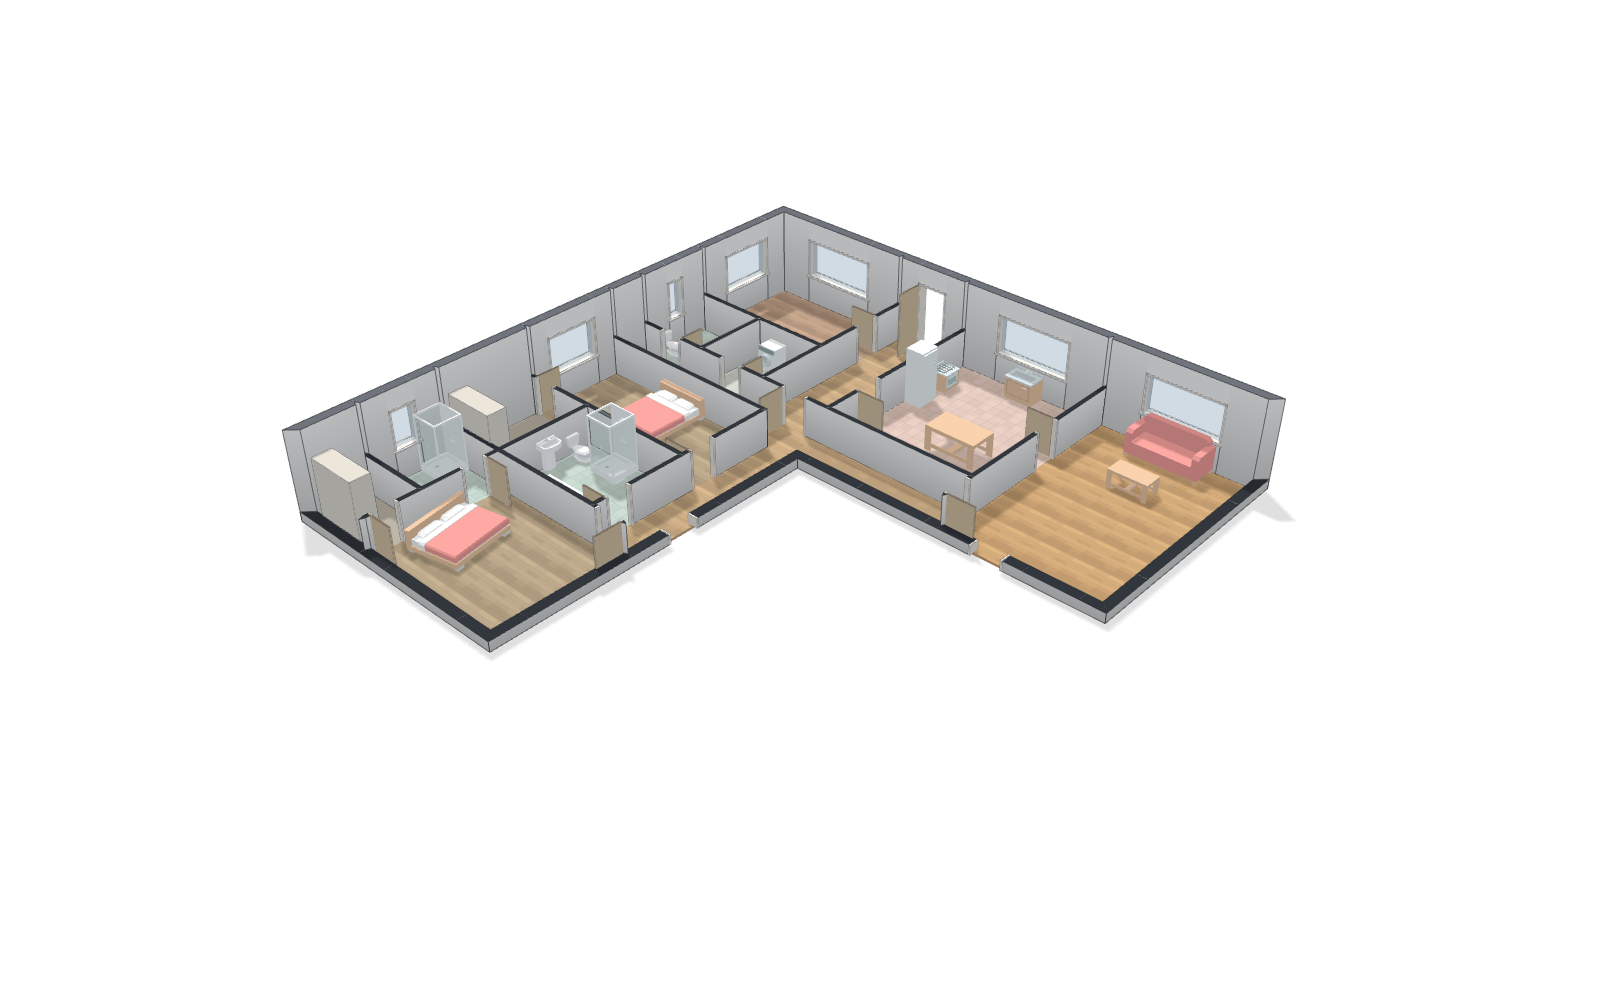
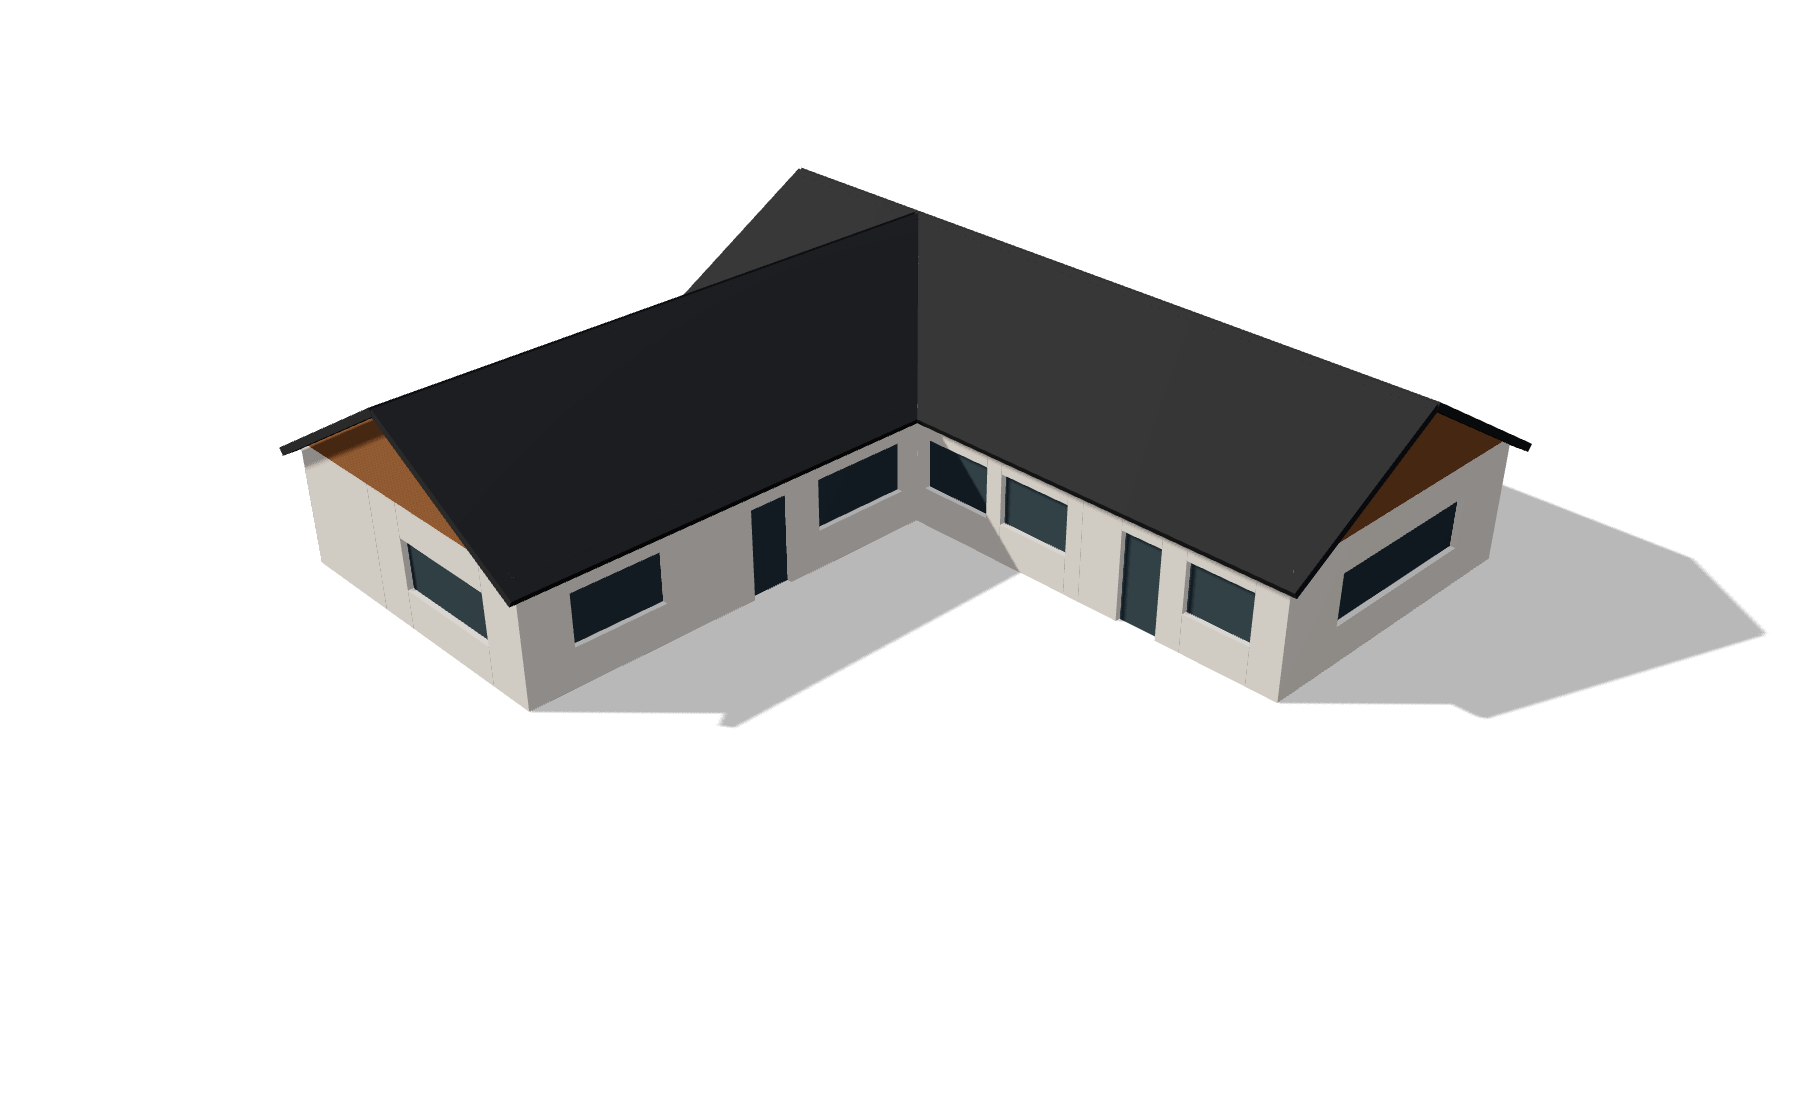
Site images: exterior renders of the courtyard house (pitched roofs, rendered walls, glazing) set in architectural scenes by Cloudinary
Ten scenes (garden, dusk courtyard, street, aerial countryside, low angle, sunrise meadow, snow at dusk, autumn
courtyard, wildflower meadow, night aerial), one per image slot on the home page; the sign-in panel uses the aerial.

Claude-Session: https://claude.ai/code/session_01PjL1vTyzjrBqKBFvDzjdcA

Changed region(s): [[0.1562, 0.155, 1.0, 0.651]]

diff --git a/apps/web/index.html b/apps/web/index.html
@@ -26,7 +26,7 @@
         <h1 id="hero-h" class="rise" style="--k:1">Ask your drawings.<br>See the answer on the sheet.</h1>
         <div class="k-hero-foot rise" style="--k:2">
           <div class="cta-row"><a class="btn" href="/app/#signup">Start a project</a><a class="btn ghost on-dark" href="/product/">See the product</a></div>
-          <p class="k-meta"><span>Pilot house</span><span>Courtyard house · 194.4 m²</span><a href="#intro" class="k-scroll">Scroll <span aria-hidden="true">↓</span></a></p>
+          <p class="k-meta"><span>Pilot house</span><span>Courtyard house · 194.4 m² · image from the model</span><a href="#intro" class="k-scroll">Scroll <span aria-hidden="true">↓</span></a></p>
         </div>
       </div>
     </section>
@@ -76,24 +76,24 @@
           <li class="k-item">
             <div class="k-item-head rise"><span class="k-n mono">(01)</span><h3>Ask</h3><span class="k-tag">Answers with sources</span></div>
             <div class="k-pair">
-              <a class="k-big rise" href="/docs/#asking"><img class="cld " data-cld="interior" src="/renders/living.png" alt="Cutaway of the living room and kitchen of the pilot house" width="1600" height="1000" loading="lazy" decoding="async"></a>
-              <a class="k-small rise" style="--k:1" href="/docs/#asking"><img class="cld " data-cld="plan" src="/renders/plan.png" alt="Rendered floor plan of the pilot house" width="1600" height="1000" loading="lazy" decoding="async"></a>
+              <a class="k-big rise" href="/docs/#asking"><img class="cld " data-cld="street" src="/renders/street.png" alt="The entrance side of the pilot house from a quiet street" width="1600" height="1000" loading="lazy" decoding="async"></a>
+              <a class="k-small rise" style="--k:1" href="/docs/#asking"><img class="cld " data-cld="corner" src="/renders/corner.png" alt="Low-angle view of the pilot house against the sky" width="1600" height="1000" loading="lazy" decoding="async"></a>
             </div>
             <div class="k-cap rise"><p><b>Ask</b> — in plain words, in your language.</p><ul><li>Areas, sizes, volumes, net and gross</li><li>Counts of doors, windows and fittings, each cited</li><li>"Not found" instead of a guess</li></ul></div>
           </li>
           <li class="k-item flip">
             <div class="k-item-head rise"><span class="k-n mono">(02)</span><h3>Mark up</h3><span class="k-tag">New</span></div>
             <div class="k-pair">
-              <a class="k-big rise" href="/docs/#workspace"><img class="cld " data-cld="model" src="/renders/aerial.png" alt="The pilot house as a cutaway model on an oak table" width="1600" height="1000" loading="lazy" decoding="async"></a>
-              <a class="k-small rise" style="--k:1" href="/docs/#workspace"><img class="cld " data-cld="sheet" src="/renders/plan.png" alt="Rendered floor plan on a paper-tone board" width="1600" height="1000" loading="lazy" decoding="async"></a>
+              <a class="k-big rise" href="/docs/#workspace"><img class="cld " data-cld="aerial" src="/renders/aerial.png" alt="Aerial view of the L-shaped pilot house in countryside" width="1600" height="1000" loading="lazy" decoding="async"></a>
+              <a class="k-small rise" style="--k:1" href="/docs/#workspace"><img class="cld " data-cld="autumn" src="/renders/courtyard.png" alt="The courtyard of the pilot house in autumn" width="1600" height="1000" loading="lazy" decoding="async"></a>
             </div>
             <div class="k-cap rise"><p><b>Mark up</b> — drag a region over the plan or the model.</p><ul><li>bimp lists the rooms, openings and fittings inside</li><li>Answers come from inside the region only</li><li>Measure between snapped corners</li></ul></div>
           </li>
           <li class="k-item">
             <div class="k-item-head rise"><span class="k-n mono">(03)</span><h3>Walk the model</h3><span class="k-tag">2D and 3D</span></div>
             <div class="k-pair">
-              <a class="k-big rise" href="/docs/#plans"><img class="cld " data-cld="dusk" src="/renders/courtyard.png" alt="The courtyard side of the pilot house at dusk" width="1600" height="1000" loading="lazy" decoding="async"></a>
-              <a class="k-small rise" style="--k:1" href="/docs/#plans"><img class="cld " data-cld="drafting" src="/renders/aerial.png" alt="The pilot house model on a drafting table" width="1600" height="1000" loading="lazy" decoding="async"></a>
+              <a class="k-big rise" href="/docs/#plans"><img class="cld " data-cld="dusk" src="/renders/courtyard.png" alt="The courtyard of the pilot house at dusk, windows lit" width="1600" height="1000" loading="lazy" decoding="async"></a>
+              <a class="k-small rise" style="--k:1" href="/docs/#plans"><img class="cld " data-cld="meadow" src="/renders/corner.png" alt="The pilot house in a wildflower meadow" width="1600" height="1000" loading="lazy" decoding="async"></a>
             </div>
             <div class="k-cap rise"><p><b>Walk the model</b> — orbit, pan and zoom freely.</p><ul><li>Isometric, top, front, side; perspective or parallel</li><li>Cut at 1.2 m like a plan section</li><li>Architectural images from any view</li></ul></div>
           </li>
@@ -107,11 +107,11 @@
 
     <section class="k-sec k-feature" aria-labelledby="feat-h">
       <div class="wrap">
-        <div class="k-head"><h2 id="feat-h" class="rise">One model,<br><em>many images.</em></h2><p class="rise" style="--k:1">From the 3D view, bimp has Cloudinary set the model in a scene: a garden, a street at dusk, a studio table. These were made from the pilot house.</p></div>
+        <div class="k-head"><h2 id="feat-h" class="rise">One model,<br><em>many images.</em></h2><p class="rise" style="--k:1">From the 3D view, bimp has Cloudinary set the model in a scene: a garden, a street at dusk, a studio table. Every image on this page was made from the pilot house's model.</p></div>
         <ul class="k-cards">
           <li class="rise"><figure><img class="cld " data-cld="morning" src="/renders/garden.png" alt="The pilot house in a misty meadow at sunrise" width="1200" height="1500" loading="lazy" decoding="async"><figcaption><b>Morning</b><span>Generated scene, 4:5</span></figcaption></figure></li>
-          <li class="rise" style="--k:1"><figure><img class="cld " data-cld="drafting" src="/renders/aerial.png" alt="The pilot house model on a drafting table with tracing paper" width="1200" height="1500" loading="lazy" decoding="async"><figcaption><b>Drafting table</b><span>Generated scene, 4:5</span></figcaption></figure></li>
-          <li class="rise" style="--k:2"><figure><img class="cld " data-cld="sheet" src="/renders/plan.png" alt="The rendered plan on a paper-tone board" width="1200" height="1500" loading="lazy" decoding="async"><figcaption><b>The sheet</b><span>Presentation board, no generation</span></figcaption></figure></li>
+          <li class="rise" style="--k:1"><figure><img class="cld " data-cld="winter" src="/renders/street.png" alt="The pilot house in snow at dusk" width="1200" height="1500" loading="lazy" decoding="async"><figcaption><b>Winter dusk</b><span>Generated scene, 4:5</span></figcaption></figure></li>
+          <li class="rise" style="--k:2"><figure><img class="cld " data-cld="night" src="/renders/aerial.png" alt="Aerial view of the pilot house at night with lit windows" width="1200" height="1500" loading="lazy" decoding="async"><figcaption><b>Night</b><span>Generated scene, aerial</span></figcaption></figure></li>
         </ul>
       </div>
     </section>

diff --git a/apps/shared/site-images.ts b/apps/shared/site-images.ts
@@ -1,24 +1,30 @@
-// Images for the marketing site, generated once with Cloudinary from renders of the pilot house's own 3D model
-// (apps/web/public/renders, made with the app's scene). Each is a transparent PNG: trimmed, set in a generated scene
-// (or on a plain board), then sized. Changing a transformation regenerates that image.
+// Images for the marketing site: architectural photographs generated once with Cloudinary from exterior renders of the
+// pilot courtyard house (apps/web/public/renders: the house's own walls, openings and pitched roofs, on a transparent
+// background). Each is trimmed, set in a generated landscape, then sized. Changing a transformation regenerates it.
 const enc = (s: string) => encodeURIComponent(s);
 const scene = (prompt: string, ar: string, w: number) => `e_trim/e_gen_background_replace:prompt_${enc(prompt)}/c_pad,ar_${ar},b_gen_fill,w_${w}/f_jpg,q_auto:good`;
-const board = (rgb: string, ar: string, w: number) => `e_trim/b_rgb:${rgb},c_pad,ar_${ar},w_${w}/e_sharpen:40/f_jpg,q_auto:good`;
 
 export type SiteImage = { key: string; source: string; transformation: string; alt: string };
+const HOUSE = 'a contemporary single storey courtyard house with white rendered walls, large windows and dark pitched roofs';
 export const SITE_IMAGES: SiteImage[] = [
   { key: 'hero', source: '/renders/garden.png', alt: 'The pilot courtyard house in a landscaped garden, late afternoon',
-    transformation: scene('a calm landscaped garden with ornamental grasses, young birch trees and a stone path, soft late afternoon sun, architectural photography', '16:9', 2200) },
-  { key: 'dusk', source: '/renders/courtyard.png', alt: 'The courtyard side of the pilot house at dusk',
-    transformation: scene('a quiet residential courtyard at dusk with warm light, gravel and low planting, blue hour architectural photography', '16:9', 2000) },
-  { key: 'model', source: '/renders/aerial.png', alt: 'The pilot house as a cutaway model on an oak table',
-    transformation: scene('an architectural scale model on a pale oak table in a bright architecture studio, soft window light, shallow depth of field', '4:3', 1600) },
-  { key: 'interior', source: '/renders/living.png', alt: 'Cutaway of the living room and kitchen of the pilot house',
-    transformation: scene('a white seamless photography studio backdrop with soft diffuse light and a gentle floor shadow', '4:3', 1600) },
-  { key: 'drafting', source: '/renders/aerial.png', alt: 'The pilot house model on a drafting table with tracing paper',
-    transformation: scene('a drafting table with sheets of tracing paper, a scale ruler and pencils, soft morning daylight, top down architectural photography', '4:5', 1200) },
+    transformation: scene(`${HOUSE}, in a landscaped garden with ornamental grasses, young birch trees and a stone path, soft late afternoon sun, architectural photography`, '16:9', 2200) },
+  { key: 'dusk', source: '/renders/courtyard.png', alt: 'The courtyard of the pilot house at dusk, windows lit',
+    transformation: scene(`${HOUSE}, seen from its gravel courtyard at blue hour, warm light in the windows, low planting, architectural photography`, '16:9', 2000) },
+  { key: 'street', source: '/renders/street.png', alt: 'The entrance side of the pilot house from a quiet street',
+    transformation: scene(`${HOUSE}, on a quiet tree-lined residential street with a low hedge and a gravel drive, bright morning light, architectural photography`, '4:3', 1600) },
+  { key: 'aerial', source: '/renders/aerial.png', alt: 'Aerial view of the L-shaped pilot house in countryside',
+    transformation: scene(`aerial drone view of ${HOUSE}, L shaped plan, in green countryside with meadows, hedgerows and a few oak trees, soft daylight, architectural photography`, '4:3', 1600) },
+  { key: 'corner', source: '/renders/corner.png', alt: 'Low-angle view of the pilot house against the sky',
+    transformation: scene(`low angle view of ${HOUSE}, against a clear blue sky with soft clouds, a lawn in the foreground, architectural photography`, '4:5', 1200) },
   { key: 'morning', source: '/renders/garden.png', alt: 'The pilot house in a misty meadow at sunrise',
-    transformation: scene('a misty meadow at sunrise with low golden sun and distant trees, architectural photography', '4:5', 1200) },
-  { key: 'plan', source: '/renders/plan.png', alt: 'Rendered floor plan of the pilot house', transformation: board('ffffff', '1:1', 1400) },
-  { key: 'sheet', source: '/renders/plan.png', alt: 'Rendered floor plan of the pilot house on a paper-tone board', transformation: board('f4f1ea', '4:5', 1200) },
+    transformation: scene(`${HOUSE}, in a misty meadow at sunrise with low golden sun and distant trees, architectural photography`, '4:5', 1200) },
+  { key: 'winter', source: '/renders/street.png', alt: 'The pilot house in snow at dusk',
+    transformation: scene(`${HOUSE}, in a snowy landscape at dusk with warm window light and bare trees, architectural photography`, '4:5', 1200) },
+  { key: 'autumn', source: '/renders/courtyard.png', alt: 'The courtyard of the pilot house in autumn',
+    transformation: scene(`${HOUSE}, around a courtyard with autumn trees and fallen leaves on gravel, soft overcast light, architectural photography`, '4:5', 1200) },
+  { key: 'meadow', source: '/renders/corner.png', alt: 'The pilot house in a wildflower meadow',
+    transformation: scene(`${HOUSE}, in a summer wildflower meadow with tall grasses, warm evening light, architectural photography`, '4:5', 1200) },
+  { key: 'night', source: '/renders/aerial.png', alt: 'Aerial view of the pilot house at night with lit windows',
+    transformation: scene(`aerial view of ${HOUSE} at night, warm light glowing from the windows, dark countryside and a lit path, architectural photography`, '4:5', 1200) },
 ];

diff --git a/apps/web/src/Login.tsx b/apps/web/src/Login.tsx
@@ -17,7 +17,7 @@ export function Login() {
   const [show, setShow] = useState(false);
   // the site's Cloudinary image of the pilot model, when one has been generated (see apps/api/src/site-images.ts)
   const [photo, setPhoto] = useState<string | null>(null);
-  useEffect(() => { fetch('/api/site/images').then((r) => r.json()).then((d) => { const u = d.images?.model; if (u) { const i = new Image(); i.onload = () => setPhoto(u); i.src = u; } }).catch(() => {}); }, []);
+  useEffect(() => { fetch('/api/site/images').then((r) => r.json()).then((d) => { const u = d.images?.aerial; if (u) { const i = new Image(); i.onload = () => setPhoto(u); i.src = u; } }).catch(() => {}); }, []);
   const emailRef = useRef<HTMLInputElement>(null), pwRef = useRef<HTMLInputElement>(null), pw2Ref = useRef<HTMLInputElement>(null);
   useEffect(() => { emailRef.current?.focus(); }, []);
   useEffect(() => { document.title = `${mode === 'login' ? 'Sign in' : 'Create account'} · bimp`; }, [mode]);
@@ -95,7 +95,7 @@ export function Login() {
       </main>
       <aside class={`login-right${photo ? ' photo' : ''}`} aria-hidden="true" style={photo ? { backgroundImage: `url(${photo})` } : undefined}>
         {!photo && <div class="bp-grid" />}
-        <p class="bp-caption"><span>Pilot house · courtyard</span><span>{photo ? 'Generated with Cloudinary from the model' : 'Drawn by bimp from the plan'}</span></p>
+        <p class="bp-caption"><span>Pilot house · courtyard house</span><span>{photo ? 'Generated with Cloudinary from the model' : 'Drawn by bimp from the plan'}</span></p>
       </aside>
     </div>
   );

diff --git a/apps/web/src/app.css b/apps/web/src/app.css
@@ -81,7 +81,7 @@ kbd { font: 500 11px/1 var(--font); padding: 2px 5px; border: 1px solid var(--li
   .login-foot { flex-direction: column; gap: var(--s2); margin-top: var(--s6); }
 }
 .login-switch .link { font: inherit; padding: var(--s2) 0; text-decoration: underline; text-decoration-color: var(--accent); text-decoration-thickness: 2px; text-underline-offset: 3px; }
-.login-right { position: relative; overflow: hidden; background: #fff url(/renders/aerial.png) center / 118% auto no-repeat; }
+.login-right { position: relative; overflow: hidden; background: #fff url(/renders/aerial.png) center / 112% auto no-repeat; }
 .login-right.photo { background-size: cover; }
 .login-right.photo::before { background: linear-gradient(180deg, transparent 55%, rgb(30 29 27 / .7)); mix-blend-mode: normal; opacity: 1; }
 .login-right::before { content: ""; position: absolute; inset: 0; background: #134a8a; mix-blend-mode: multiply; opacity: .9; }
